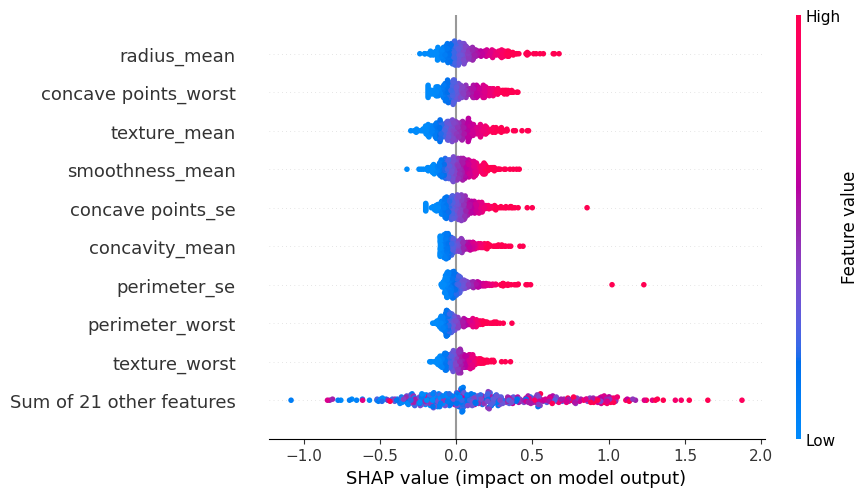
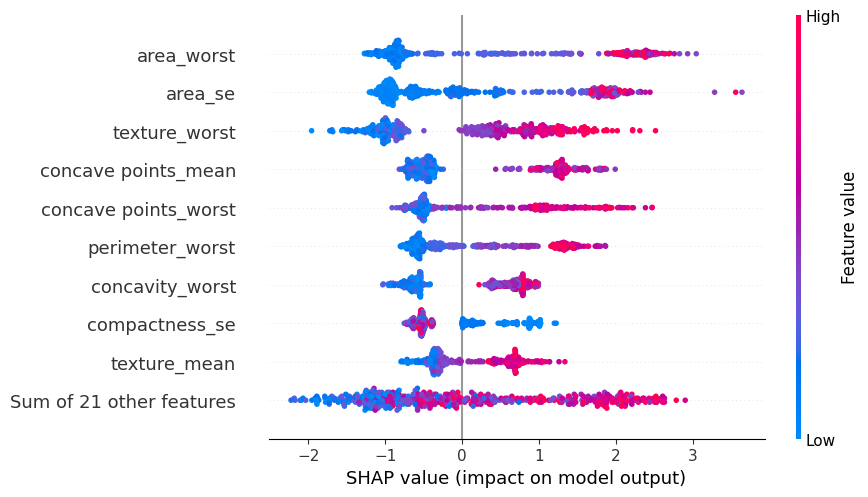
tree

diff --git a/scripts/shap_eval.py b/scripts/shap_eval.py
@@ -1,8 +1,5 @@
 import os
-import torch
-import torch.nn as nn
-import torch.nn.functional as F
-from torch.utils.data import Dataset, DataLoader
+import xgboost as xgb
 import shap
 from joblib import load
 import matplotlib.pyplot as plt
@@ -19,46 +16,25 @@ def plot_to_numpy():
 
     return img
 
-class Model(nn.Module):
-    def __init__(self):
-        super().__init__()
-        self.fc1 = nn.Linear(30, 10)
-        self.fc2 = nn.Linear(10, 2)
-    
-    def forward(self, x):
-        x = self.fc1(x)
-        x = F.relu(x)
-        x = self.fc2(x)
-        return x
+
 
 PATH = os.getcwd()
 
-model = Model()
-model.load_state_dict(torch.load(os.path.join(PATH, '../saved_objects/model.pth')))
-
+model = load(os.path.join(PATH, '../saved_objects/model.pth'))
 dataset = load(os.path.join(PATH, '../saved_objects/dataset.joblib'))
 
-x_train = torch.from_numpy(dataset['X_train'].values).float()
-feature_names = list(dataset['X_train'].columns)
 
-with torch.no_grad():
-    outputs = model(x_train)
-    probas = torch.softmax(outputs, 1)[:, 1]
-    base_value = probas.mean().item()
+explainer = shap.TreeExplainer(model, dataset['X_train'][:100])
 
-explainer = shap.DeepExplainer(model, x_train[:100])
+shap_values = explainer(dataset['X_train'])
 
-shap_values = explainer.shap_values(x_train)
-
-exp = shap.Explanation(shap_values[1], data=x_train.numpy(), base_values=base_value, feature_names=feature_names)
-
-shap.plots.beeswarm(exp, show=False)
+shap.plots.beeswarm(shap_values, show=False)
 
 beeswarm = plot_to_numpy()
 Image.fromarray(beeswarm).save('beeswarm.png')
 
 plt.clf()
-shap.plots.waterfall(exp[5], show=False)
+shap.plots.waterfall(shap_values[0], show=False)
 
 waterfall = plot_to_numpy()
 Image.fromarray(waterfall).save('waterfall.png')

diff --git a/scripts/eval.py b/scripts/eval.py
@@ -1,46 +1,16 @@
 import os
-import torch
-import torch.nn as nn
-import torch.nn.functional as F
+import xgboost as xgb
 from joblib import load
 from sklearn.metrics import confusion_matrix, ConfusionMatrixDisplay, accuracy_score, precision_score, recall_score, f1_score
 import matplotlib.pyplot as plt
 import numpy as np
 
-class Model(nn.Module):
-    def __init__(self):
-        super().__init__()
-        self.fc1 = nn.Linear(30, 10)
-        self.fc2 = nn.Linear(10, 2)
-    
-    def forward(self, x):
-        x = self.fc1(x)
-        x = F.relu(x)
-        x = self.fc2(x)
-        return x
-
-
 PATH = os.getcwd()
 
-model = Model()
-model.load_state_dict(torch.load(os.path.join(PATH, '../saved_objects/model.pth')))
+model = load(os.path.join(PATH, '../saved_objects/model.pth'))
 dataset = load(os.path.join(PATH, '../saved_objects/dataset.joblib'))
 
-y_pred = list()
-y_test = list()
-
-attributes = torch.from_numpy(dataset['X_test'].values).float()
-labels = torch.from_numpy(dataset['y_test'])
-
-with torch.no_grad():
-    outputs = model(attributes)
-    _, classes = torch.max(outputs, 1)
-    y_pred.extend(classes.tolist())
-    y_test.extend(labels.tolist())
-
-
-y_pred = np.array(y_pred)
-y_test = np.array(y_test)
+y_pred = model.predict(dataset['X_test'])
 
 cm = confusion_matrix(dataset['y_test'], y_pred)
 acc = accuracy_score(dataset['y_test'], y_pred)

diff --git a/scripts/train.py b/scripts/train.py
@@ -1,44 +1,13 @@
 import os
 from joblib import load, dump
-import torch.nn as nn
-import torch.nn.functional as F
-import torch.optim as optim
-import torch
-
-class Model(nn.Module):
-    def __init__(self):
-        super().__init__()
-        self.fc1 = nn.Linear(30, 10)
-        self.fc2 = nn.Linear(10, 2)
-    
-    def forward(self, x):
-        x = self.fc1(x)
-        x = F.relu(x)
-        x = self.fc2(x)
-        return x
-
+import xgboost as xgb
 
 PATH = os.getcwd()
 
 dataset = load(os.path.join(PATH, '../saved_objects/dataset.joblib'))
 
-model = Model()
-num_epochs = 100
-lr = 0.001
+model = xgb.XGBClassifier()
 
-criterion = nn.CrossEntropyLoss()
-optimizer = optim.Adam(model.parameters(), lr = lr)
+model.fit(dataset['X_train'], dataset['y_train'])
 
-attributes = torch.from_numpy(dataset['X_train'].values).float()
-labels = torch.from_numpy(dataset['y_train'])
-
-for epoch in range(num_epochs):
-    outputs = model(attributes)
-    loss = criterion(outputs, labels)
-    optimizer.zero_grad()
-    loss.backward()
-    optimizer.step()
-    
-    print(f'Epoch {epoch} Loss {loss.item()}')
-
-torch.save(model.state_dict(), os.path.join(PATH, '../saved_objects/model.pth'))
+dump(model, os.path.join(PATH, '../saved_objects/model.pth'))
